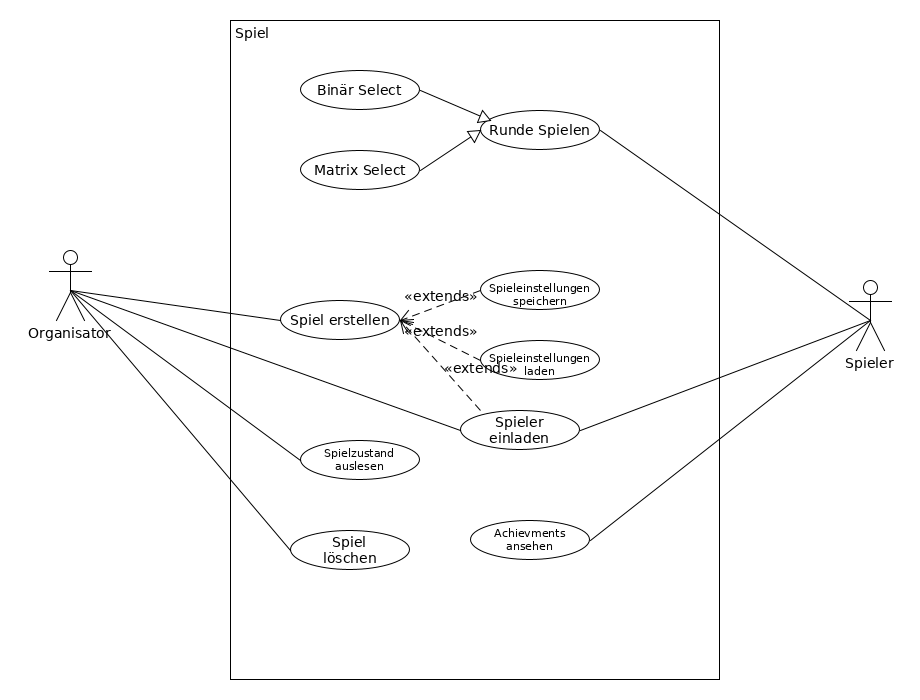
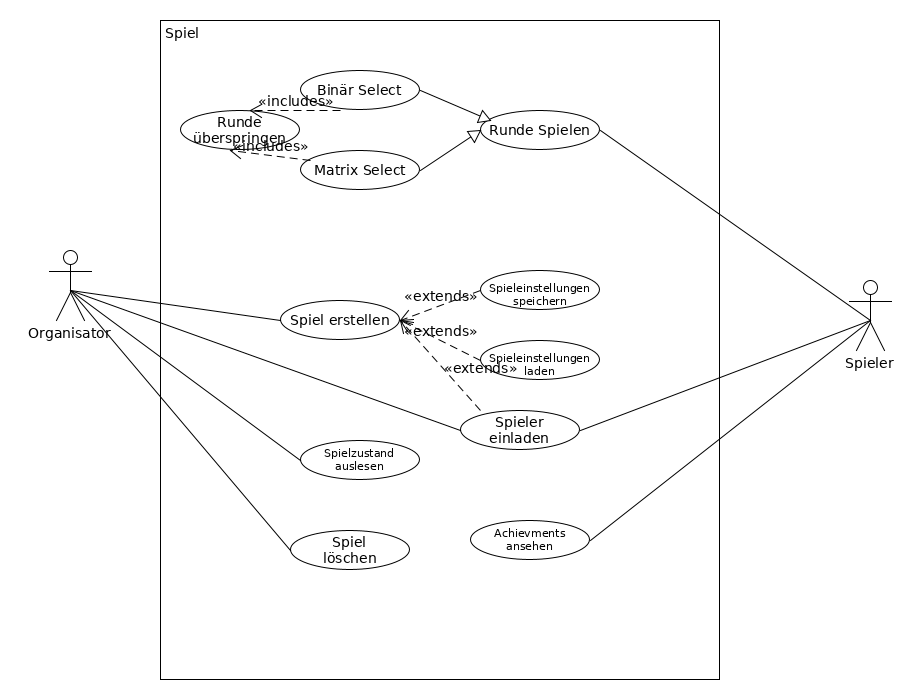
added use case diagramms to the pflichtenheft and removed admin account from anwendungsfälle

Changed region(s): [[0.1826, 0.12, 0.3652, 0.24], [0.2435, 0.03, 0.3043, 0.06], [0.1826, 0.03, 0.213, 0.06]]

diff --git a/pflichtenheft/pflichtenheft.tex b/pflichtenheft/pflichtenheft.tex
@@ -246,37 +246,15 @@ description={Ein Computer, welcher der Verwaltung von CS:Select dient und eine I
 
     \section{Anwendungsfälle}
 
-    \subsection{Ergebnisse auslesen}
+    \includegraphics[width=\textwidth]{uml/export/Organisation.png}
+    Akteure:
     \begin{itemize}
-        \item Teilnehmende Akteure: \Gls{Organisator}
-        \item Eingangsaktionen: \Gls{Organisator} öffnet die Auswertungsseite
-        \item Ausgangsaktionen: \Gls{Organisator} erhält die Auswertung
-        \item Ereignisfluss -
+        \item \Gls{Administrator}
+        \item \Gls{Organisator}
+        \item \Gls{Spieler}
     \end{itemize}
-
-    \subsection{Server installieren}
-    \begin{itemize}
-        \item Teilnehmende Akteure: \Gls{Administrator} 
-        \item Eingangsaktionen: Computer mit MySQL und Tomcat installiert
-        \item Ausgangsaktionen: Spiele-Server starten
-        \item Ereignisfluss: 
-            \begin{itemize}
-                \item Administrator kopiert die War Datei in den Tomcat webapps Ordner
-                \item Administrator fügt den Pfad zur CFG Datei in die `tomcat/conf/Catalina/<host>` Datei ein
-                \item Administrator konfiguriert die CFG Datei aus der Dokumentation mit den relevanten Werten
-                \item Administrator führt \texttt{tomcat/bin/startup.sh}(Linux \& Mac) bzw. \texttt{tomcat\textbackslash bin\textbackslash startup.bat}(Windows) aus
-            \end{itemize}
-    \end{itemize}
-
-    \subsection{Server beenden}
-    \begin{itemize}
-        \item Teilnehmende Akteure: Administrator
-        \item Eingangsaktionen: Spiele-Server ist aktiv
-        \item Ausgangsaktionen: MySQL beenden, falls sonst nichts Weiteres auf der Datenbank läuft
-        \item Ereignisfluss: Administrator führt \texttt{tomcat/bin/shutdown.sh}(Linux \& Mac) bzw. \texttt{tomcat\textbackslash bin\textbackslash shutdown.bat}(Windows)
-    \end{itemize}
-
-    \subsection{Spieler registrieren}
+    \newpage
+   \subsection{Spieler registrieren}
     \begin{itemize}
         \item Teilnehmende Akteure: Organisator, Spieler
         \item Eingangsaktionen: Spiele-Server ist aktiv
@@ -403,61 +381,24 @@ description={Ein Computer, welcher der Verwaltung von CS:Select dient und eine I
             \item Organisator bestätigt seine Auswahl
         \end{itemize}
     \end{itemize}
-
-    \subsection{Server installieren}
+    \subsection{Ergebnisse auslesen}
     \begin{itemize}
-        \item Teilnehmende Akteure: \Gls{Administrator} 
-        \item Eingangsaktionen: Computer mit MySQL und Tomcat installiert
-        \item Ausgangsaktionen: Spiele-Server starten
-        \item Ereignisfluss: 
-            \begin{itemize}
-                \item Administrator kopiert die War Datei in den Tomcat webapps Ordner
-                \item Administrator fügt den Pfad zur CFG Datei in die `tomcat/conf/Catalina/<host>` Datei ein
-                \item Administrator konfiguriert die CFG Datei aus der Dokumentation mit den relevanten Werten
-                \item Administrator führt \texttt{tomcat/bin/startup.sh}(Linux \& Mac) bzw. \texttt{tomcat\textbackslash bin\textbackslash startup.bat}(Windows) aus
-            \end{itemize}
+        \item Teilnehmende Akteure: \Gls{Organisator}
+        \item Eingangsaktionen: \Gls{Organisator} öffnet die Auswertungsseite
+        \item Ausgangsaktionen: \Gls{Organisator} erhält die Auswertung
+        \item Ereignisfluss -
     \end{itemize}
-
-    \subsection{Server beenden}
+ 
+    \newpage
+    \includegraphics[width=\textwidth]{uml/export/Spiel.png}
+    Akteure: 
     \begin{itemize}
-        \item Teilnehmende Akteure: Administrator
-        \item Eingangsaktionen: Spiele-Server ist aktiv
-        \item Ausgangsaktionen: MySQL beenden, falls sonst nichts Weiteres auf der Datenbank läuft
-        \item Ereignisfluss: Administrator führt \texttt{tomcat/bin/shutdown.sh}(Linux \& Mac) bzw. \texttt{tomcat\textbackslash bin\textbackslash shutdown.bat}(Windows)
+    \item \Gls{Spieler}
+    \item \Gls{Organisator}
+    \newpage
     \end{itemize}
-
-
-    \subsection{Achievements ansehen}
-    \begin{itemize}
-        \item Teilnehmende Akteure: \Gls{Spieler}
-        \item Eingangsaktionen: Spiele-Server ist aktiv
-        %\item Ausgangsaktionen: Achievements ansehen
-        \item Ereignisfluss:
-        \begin{itemize}
-            \item Spieler meldet sich an
-            \item Spieler erreicht seine Übersichts-Seite
-            \item Spieler klickt auf die Spieler-Übersichts-Schaltfläche
-            \item Spieler schaut seine Achievements an
-        \end{itemize}
-    \end{itemize}
-    %Nach der Anmeldung erreicht ein \Gls{Spieler} eine Übersichts-Seite. Beim Klicken auf die Spieler-Übersicht-Schaltfläche
-    %(in \fref{fig:Spieler-Übersicht} gezeigt) kann der \Gls{Spieler} seine \Gls{Achievement}s einsehen.
-
-    \subsection{Leaderboard ansehen}
-    \begin{itemize}
-        \item Teilnehmende Akteure: \Gls{Spieler}
-        \item Eingangsaktionen: Spiele-Server ist aktiv
-        %\item Ausgangsaktionen: Leaderboard ansehen
-        \item Ereignisfluss:
-        \begin{itemize}
-            \item Spieler meldet sich an
-            \item Spieler erreicht seine Übersichtsseite
-            \item Spieler sieht dort in einer Tabelle die Spieler mit den meisten Punkten über einen gewissen Zeitraum
-        \end{itemize}
-    \end{itemize}
-    %Nach der Anmeldung erreicht ein \Gls{Spieler} eine Übersichts-Seite. Darauf ist ein Bereich, der eine aktuelle Tabelle
-    %anzeigt, in welcher die \Gls{Spieler} aufgelistet sind, die in einem bestimmten Zeitraum die meisten Punkte erreicht haben.
     
+   
     \subsection{Runde spielen: Matrix Select}
     \begin{itemize}
     	\item Teilnehmende Akteure: \Gls{Spieler}
@@ -528,6 +469,58 @@ description={Ein Computer, welcher der Verwaltung von CS:Select dient und eine I
             \item Organisator oder Spieler bestätigt seine Auswahl
         \end{itemize}
     \end{itemize}
+    \subsection{Server installieren}
+    \begin{itemize}
+        \item Teilnehmende Akteure: \Gls{Administrator} 
+        \item Eingangsaktionen: Computer mit MySQL und Tomcat installiert
+        \item Ausgangsaktionen: Spiele-Server starten
+        \item Ereignisfluss: 
+            \begin{itemize}
+                \item Administrator kopiert die War Datei in den Tomcat webapps Ordner
+                \item Administrator fügt den Pfad zur CFG Datei in die `tomcat/conf/Catalina/<host>` Datei ein
+                \item Administrator konfiguriert die CFG Datei aus der Dokumentation mit den relevanten Werten
+                \item Administrator führt \texttt{tomcat/bin/startup.sh}(Linux \& Mac) bzw. \texttt{tomcat\textbackslash bin\textbackslash startup.bat}(Windows) aus
+            \end{itemize}
+    \end{itemize}
+
+    \subsection{Server beenden}
+    \begin{itemize}
+        \item Teilnehmende Akteure: Administrator
+        \item Eingangsaktionen: Spiele-Server ist aktiv
+        \item Ausgangsaktionen: MySQL beenden, falls sonst nichts Weiteres auf der Datenbank läuft
+        \item Ereignisfluss: Administrator führt \texttt{tomcat/bin/shutdown.sh}(Linux \& Mac) bzw. \texttt{tomcat\textbackslash bin\textbackslash shutdown.bat}(Windows)
+    \end{itemize}
+    \subsection{Achievements ansehen}
+    \begin{itemize}
+        \item Teilnehmende Akteure: \Gls{Spieler}
+        \item Eingangsaktionen: Spiele-Server ist aktiv
+        %\item Ausgangsaktionen: Achievements ansehen
+        \item Ereignisfluss:
+        \begin{itemize}
+            \item Spieler meldet sich an
+            \item Spieler erreicht seine Übersichts-Seite
+            \item Spieler klickt auf die Spieler-Übersichts-Schaltfläche
+            \item Spieler schaut seine Achievements an
+        \end{itemize}
+    \end{itemize}
+    %Nach der Anmeldung erreicht ein \Gls{Spieler} eine Übersichts-Seite. Beim Klicken auf die Spieler-Übersicht-Schaltfläche
+    %(in \fref{fig:Spieler-Übersicht} gezeigt) kann der \Gls{Spieler} seine \Gls{Achievement}s einsehen.
+    \subsection{Leaderboard ansehen}
+    \begin{itemize}
+        \item Teilnehmende Akteure: \Gls{Spieler}
+        \item Eingangsaktionen: Spiele-Server ist aktiv
+        %\item Ausgangsaktionen: Leaderboard ansehen
+        \item Ereignisfluss:
+        \begin{itemize}
+            \item Spieler meldet sich an
+            \item Spieler erreicht seine Übersichtsseite
+            \item Spieler sieht dort in einer Tabelle die Spieler mit den meisten Punkten über einen gewissen Zeitraum
+        \end{itemize}
+    \end{itemize}
+    %Nach der Anmeldung erreicht ein \Gls{Spieler} eine Übersichts-Seite. Darauf ist ein Bereich, der eine aktuelle Tabelle
+    %anzeigt, in welcher die \Gls{Spieler} aufgelistet sind, die in einem bestimmten Zeitraum die meisten Punkte erreicht haben.
+ 
+
 
     \subsection{Passwort ändern}
     \begin{itemize}
